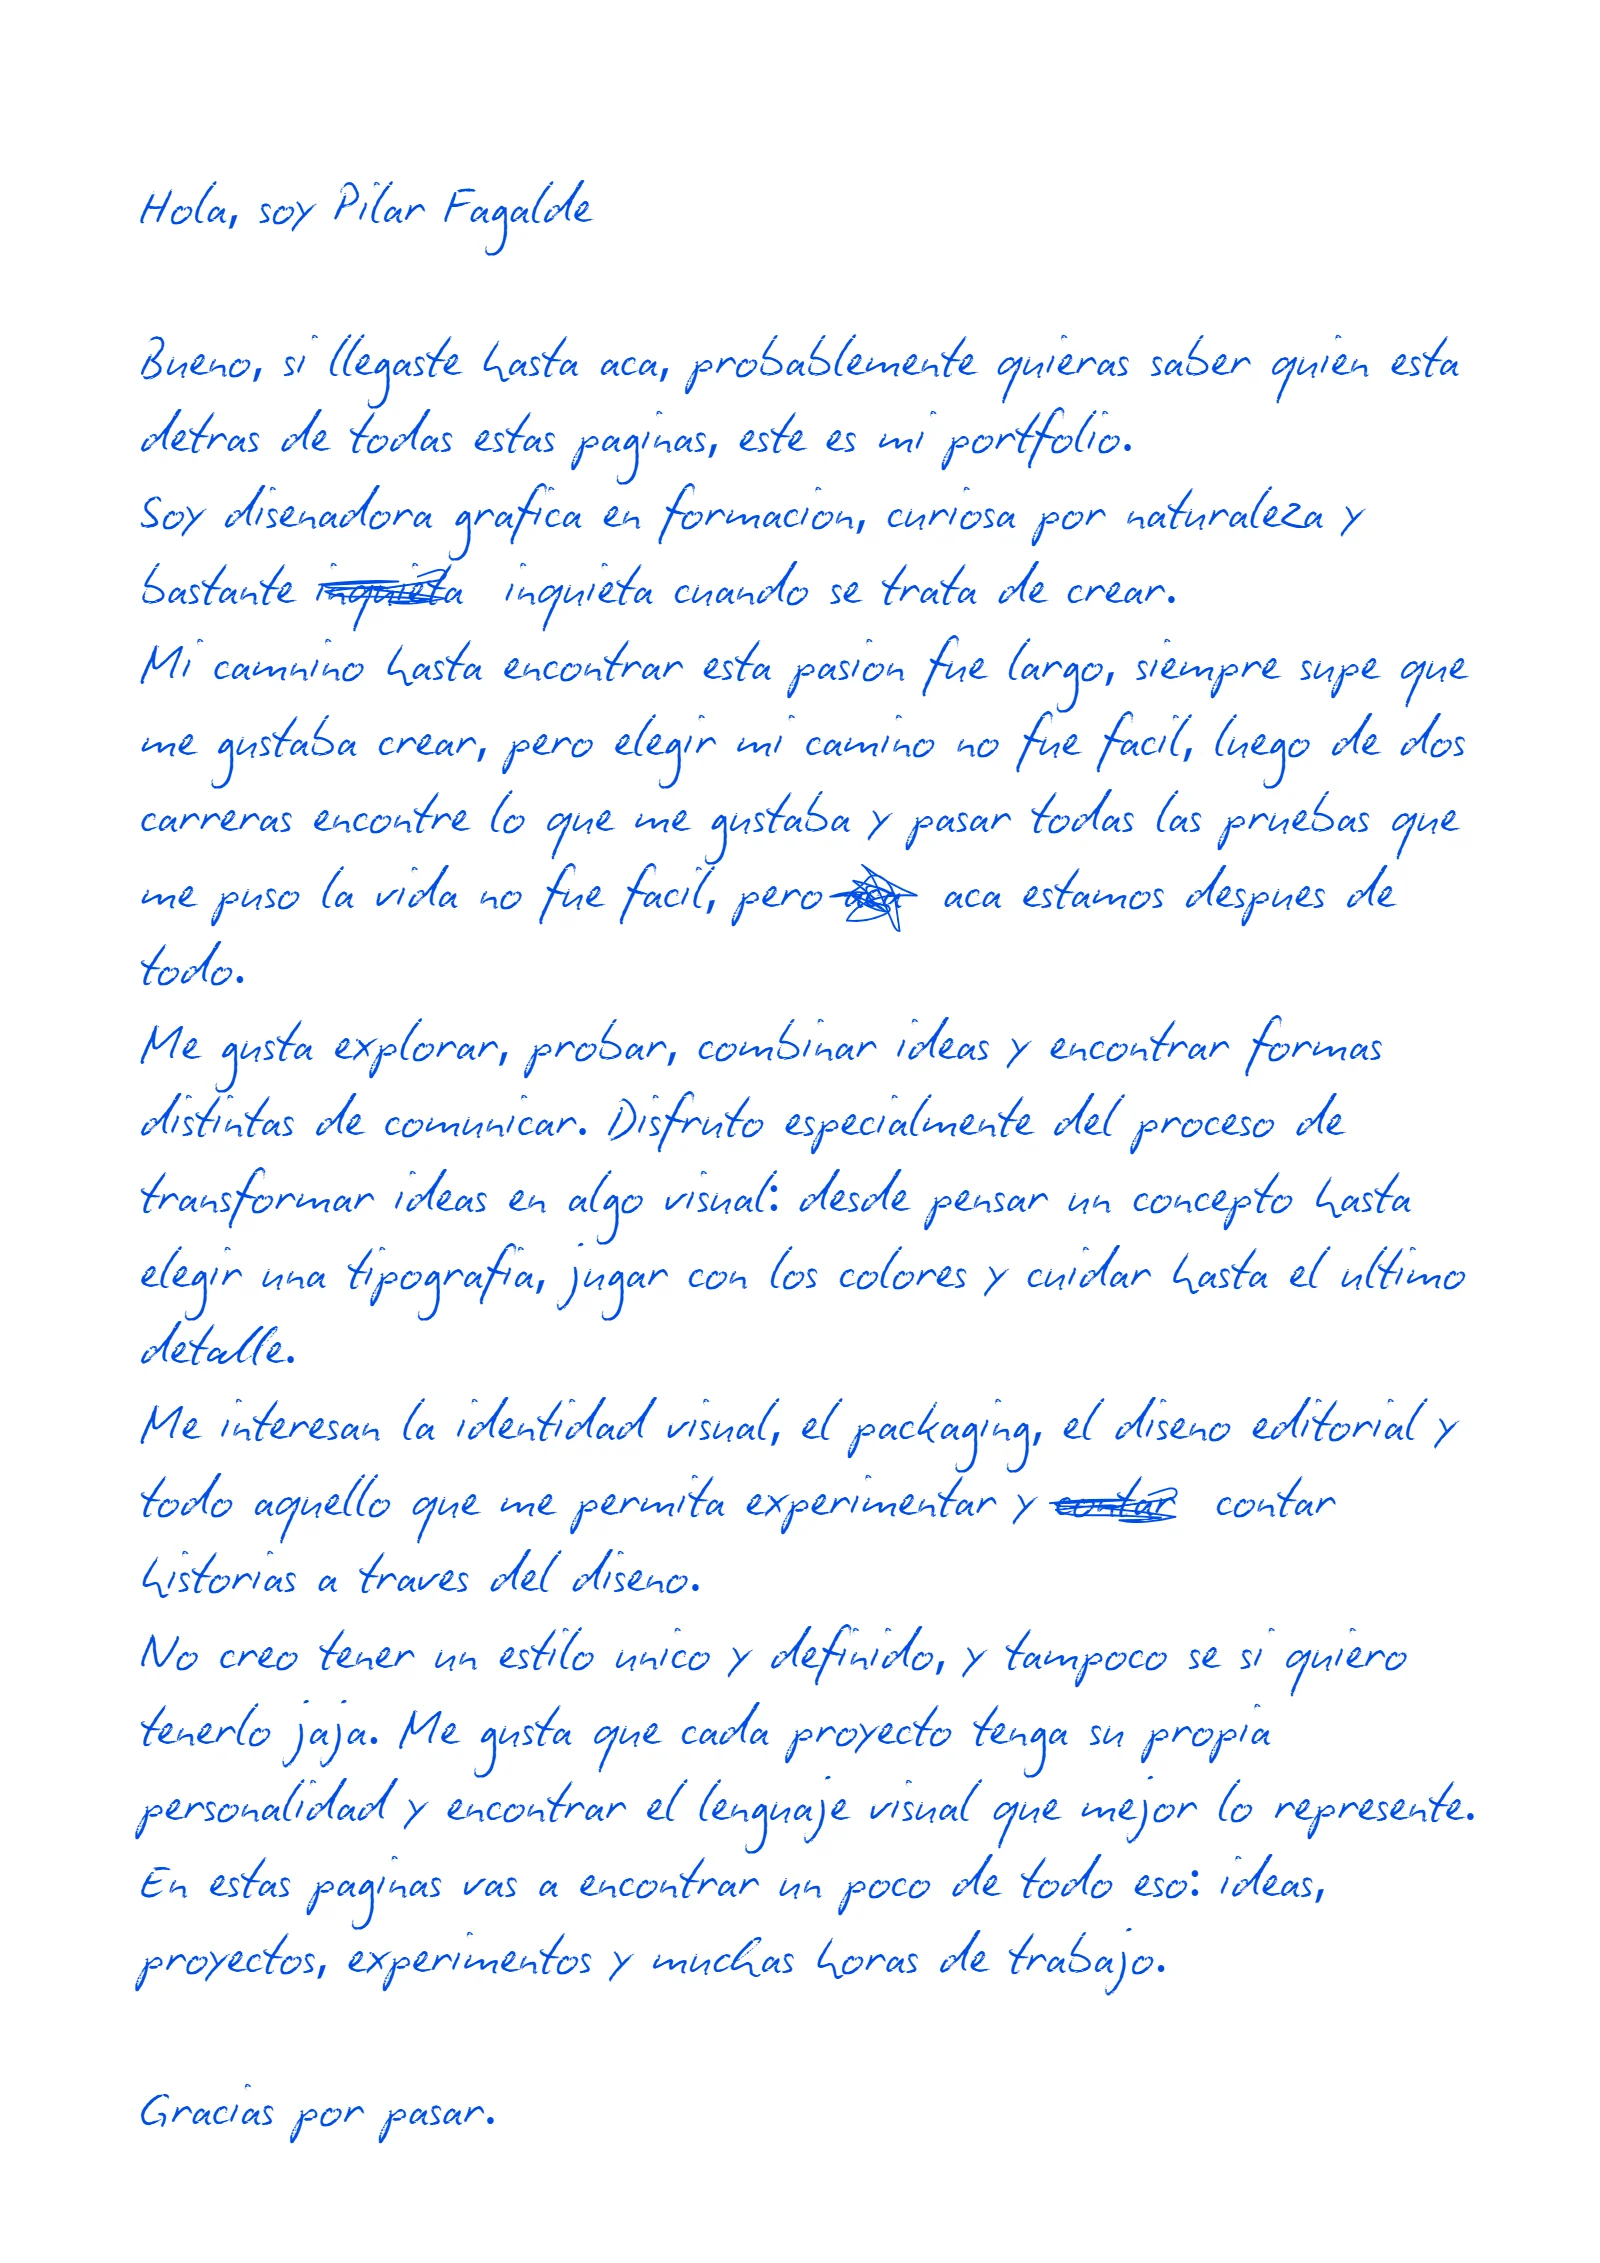
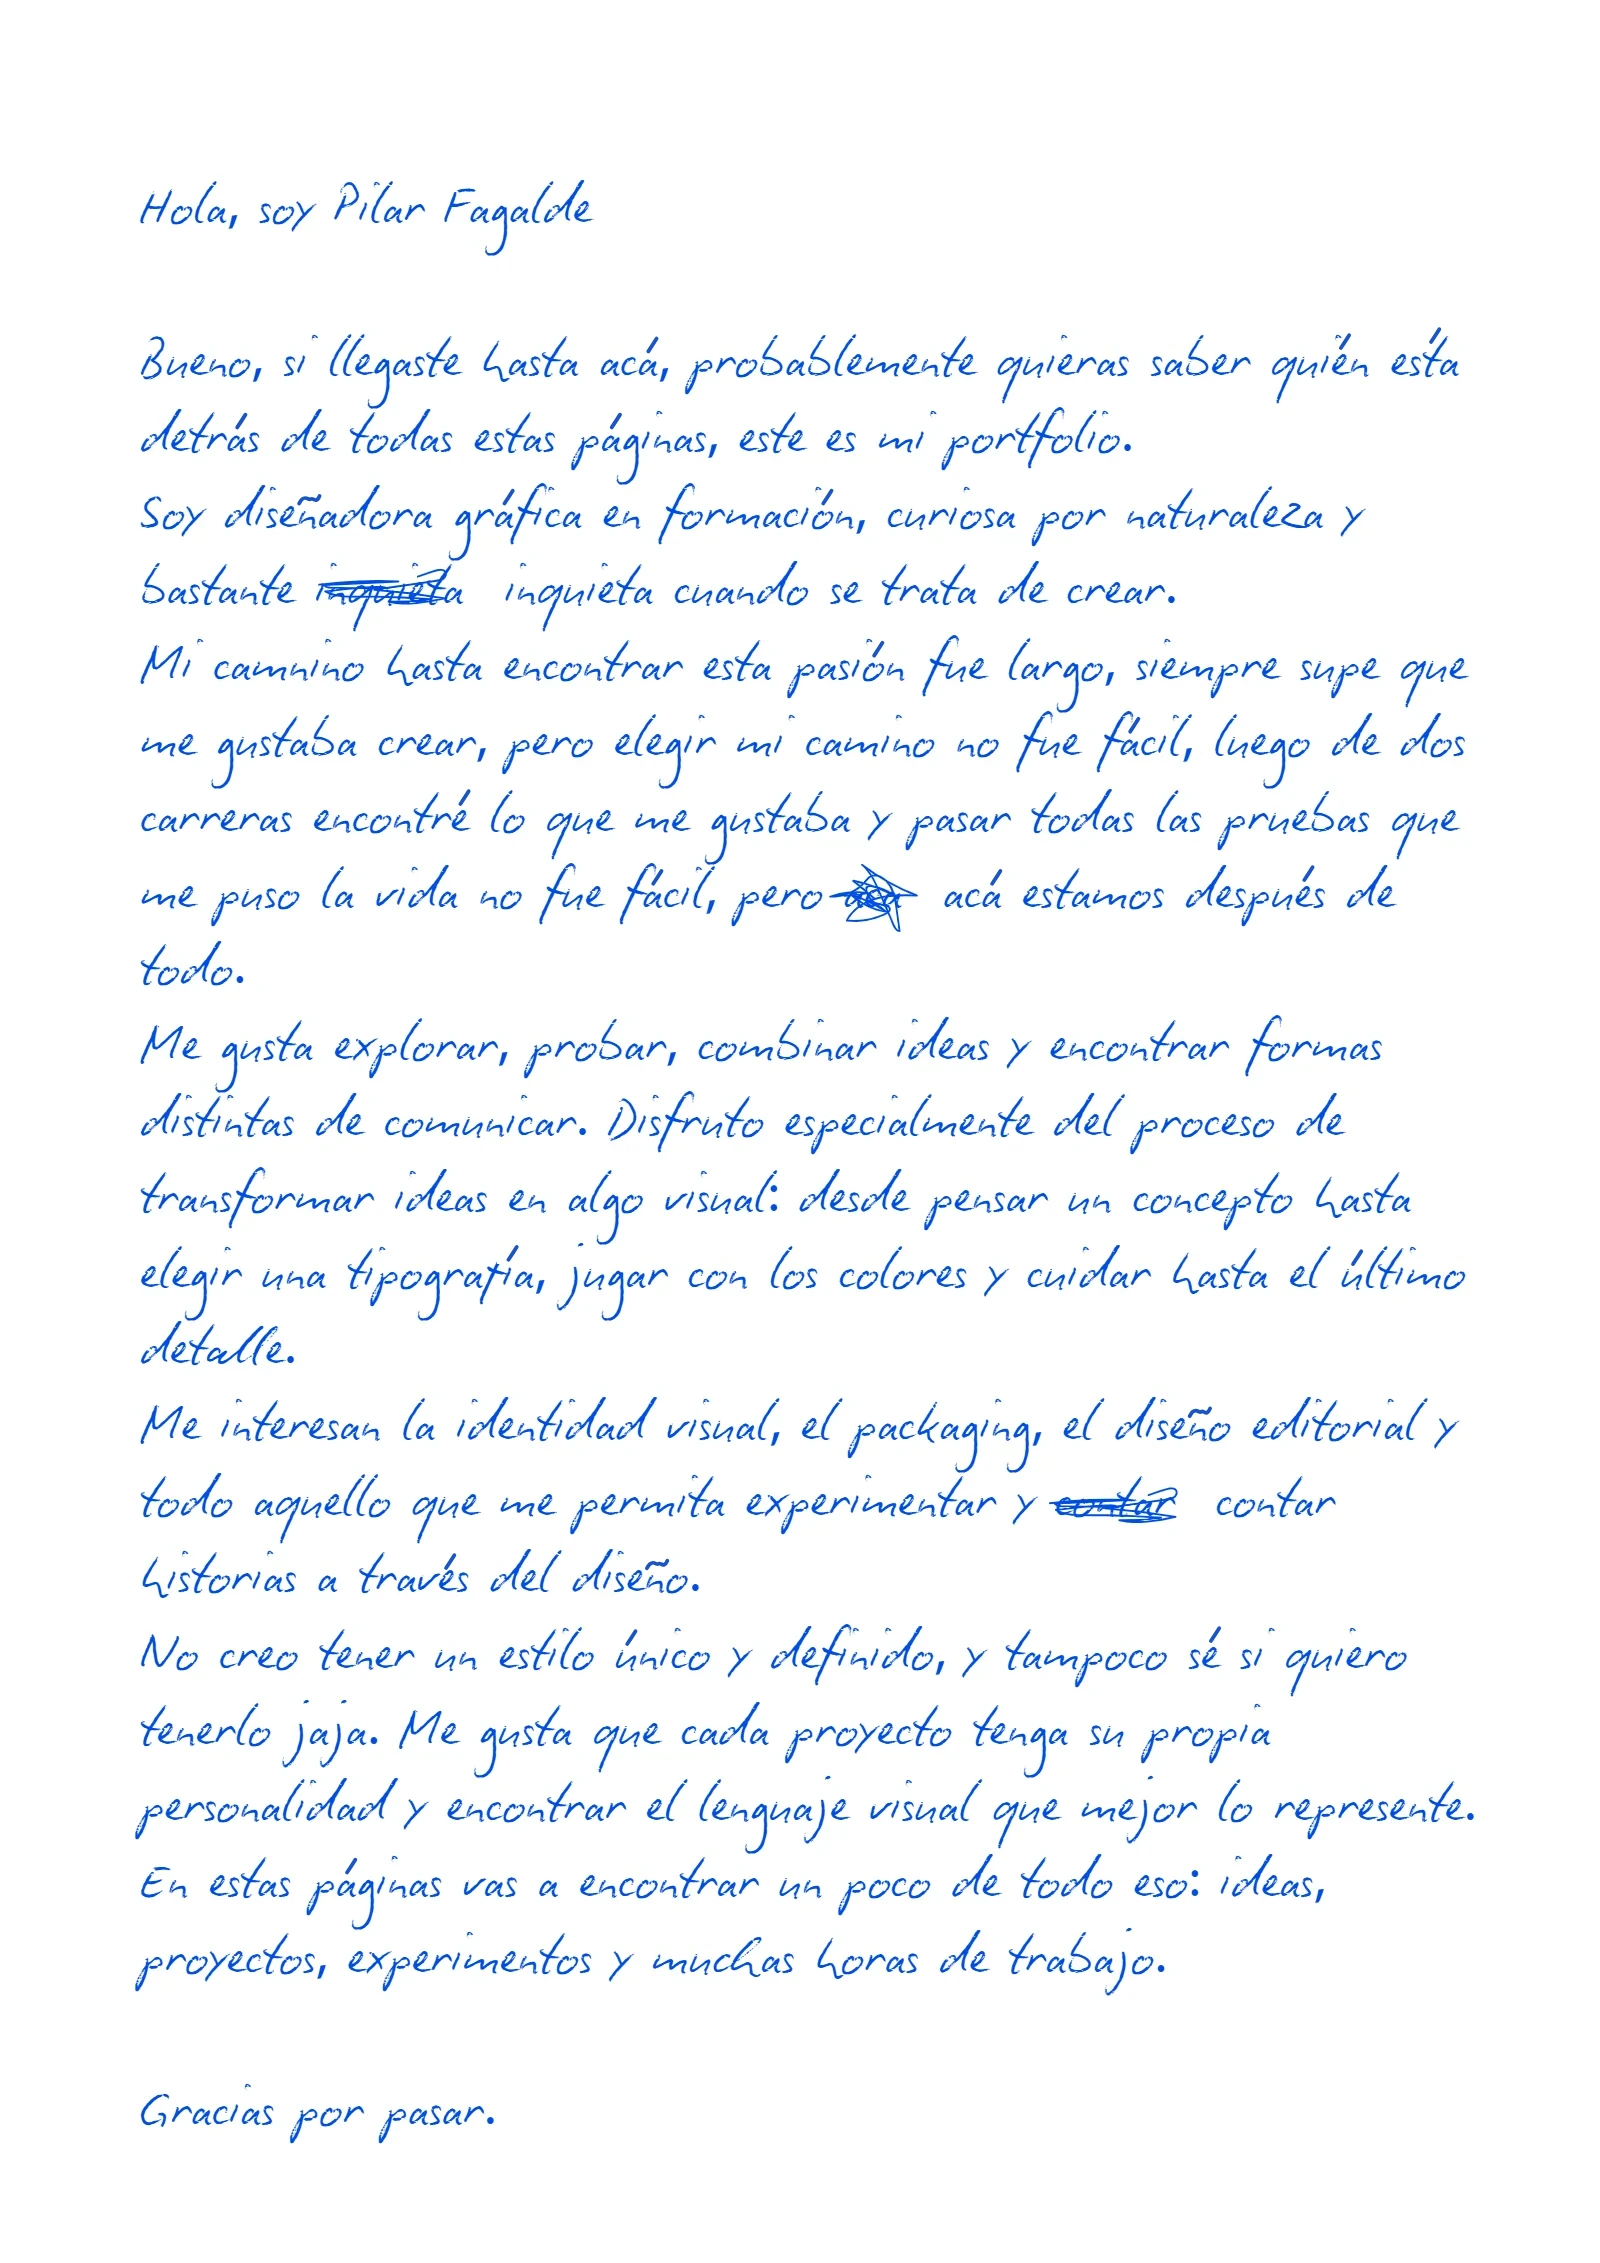
Revistita centrada en altura y carta con ñ y tildes
La tipografía de la carta (Biro Script reduced) no trae ñ ni vocales
acentuadas: se dibujaron sobre la imagen con el mismo color y grosor de
trazo. También se corrige el texto oculto de la carta.

diff --git a/index.html b/index.html
@@ -229,7 +229,7 @@ body.rev-zoom .libro { cursor: zoom-out; }
   <h1>Pilar Fagalde · Portfolio</h1>
 
   <h2>Tapa</h2>
-  <p>Hola, soy Pilar Fagalde. Bueno, si llegaste hasta aca, probablemente quieras saber quien esta detras de todas estas paginas, este es mi portfolio. Soy disenadora grafica en formacion, curiosa por naturaleza y bastante inquieta cuando se trata de crear. Mi camino hasta encontrar esta pasion fue largo, siempre supe que me gustaba crear, pero elegir mi camino no fue facil, luego de dos carreras encontre lo que me gustaba y pasar todas las pruebas que me puso la vida no fue facil, pero aca estamos despues de todo. Me gusta explorar, probar, combinar ideas y encontrar formas distintas de comunicar. Disfruto especialmente del proceso de transformar ideas en algo visual: desde pensar un concepto hasta elegir una tipografia, jugar con los colores y cuidar hasta el ultimo detalle. Me interesan la identidad visual, el packaging, el diseno editorial y todo aquello que me permita experimentar y contar historias a traves del diseno. No creo tener un estilo unico y definido, y tampoco se si quiero tenerlo jaja. Me gusta que cada proyecto tenga su propia personalidad y encontrar el lenguaje visual que mejor lo represente. En estas paginas vas a encontrar un poco de todo eso: ideas, proyectos, experimentos y muchas horas de trabajo. Gracias por pasar.</p>
+  <p>Hola, soy Pilar Fagalde. Bueno, si llegaste hasta acá, probablemente quieras saber quién está detrás de todas estas páginas, este es mi portfolio. Soy diseñadora gráfica en formación, curiosa por naturaleza y bastante inquieta cuando se trata de crear. Mi camino hasta encontrar esta pasión fue largo, siempre supe que me gustaba crear, pero elegir mi camino no fue fácil, luego de dos carreras encontré lo que me gustaba y pasar todas las pruebas que me puso la vida no fue fácil, pero acá estamos después de todo. Me gusta explorar, probar, combinar ideas y encontrar formas distintas de comunicar. Disfruto especialmente del proceso de transformar ideas en algo visual: desde pensar un concepto hasta elegir una tipografía, jugar con los colores y cuidar hasta el último detalle. Me interesan la identidad visual, el packaging, el diseño editorial y todo aquello que me permita experimentar y contar historias a través del diseño. No creo tener un estilo único y definido, y tampoco sé si quiero tenerlo jaja. Me gusta que cada proyecto tenga su propia personalidad y encontrar el lenguaje visual que mejor lo represente. En estas páginas vas a encontrar un poco de todo eso: ideas, proyectos, experimentos y muchas horas de trabajo. Gracias por pasar.</p>
 
   <h2>Sobre mí</h2>
   <p>Soy Pilar Fagalde, estudiante avanzada de la Licenciatura en Diseño Gráfico en la UNSTA. Me interesa el diseño como herramienta para comunicar ideas, construir identidades y generar experiencias visuales. Disfruto especialmente del desarrollo conceptual de cada proyecto, la exploración gráfica y la búsqueda de soluciones que combinen creatividad y funcionalidad. Me considero una persona curiosa, detallista, empática y con ganas constantes de aprender, experimentar y seguir desarrollándome profesionalmente. Me gusta involucrarme en cada proyecto y comprender sus necesidades. Valoro el intercambio de ideas, el trabajo colaborativo y la posibilidad de enfrentar nuevos desafíos que me permitan ampliar mi mirada y seguir creciendo como profesional.</p>
@@ -334,12 +334,12 @@ const ETIQUETAS = [
    ancho = 0.5 → mide media página (74 mm sobre una página A5).
    x 0 = el lomo de la revistita queda sobre el pliegue central del
    portfolio, así abierta queda centrada en el pliego grande.
-   y 0.36 = su centro a la altura del centro de las tapas grandes.
+   y 'centro' = centrada en el alto de la página (o un número: 0 = arriba).
    Las páginas están en img/revista/01.webp … 12.webp.
    ========================================================= */
 const REV = {
   estado: 8,                 // posición del libro donde se ve (spread de MA)
-  x: 0, y: 0.36, ancho: 0.5,
+  x: 0, y: 'centro', ancho: 0.5,
   ratio: 209.764 / 297.638,  // ancho / alto de una página de la revistita
   paginas: 12,
   src: n => `img/revista/${String(n).padStart(2, '0')}.webp`,
@@ -381,7 +381,7 @@ function medir() {
   css.setProperty('--W', W + 'px');
   css.setProperty('--H', H + 'px');
   // revistita
-  RW = W * REV.ancho; RH = RW / REV.ratio; RX = W * REV.x; RY = H * REV.y;
+  RW = W * REV.ancho; RH = RW / REV.ratio; RX = W * REV.x; RY = REV.y === 'centro' ? (H - RH) / 2 : H * REV.y;
   css.setProperty('--RW', RW + 'px'); css.setProperty('--RH', RH + 'px');
   css.setProperty('--RX', RX + 'px'); css.setProperty('--RY', RY + 'px');
 }
